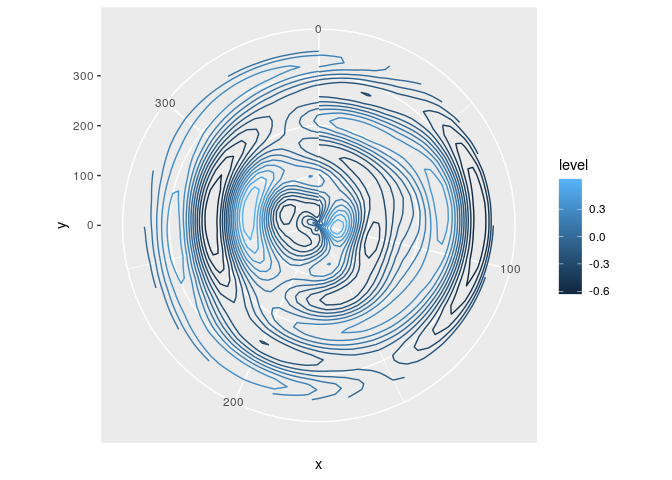
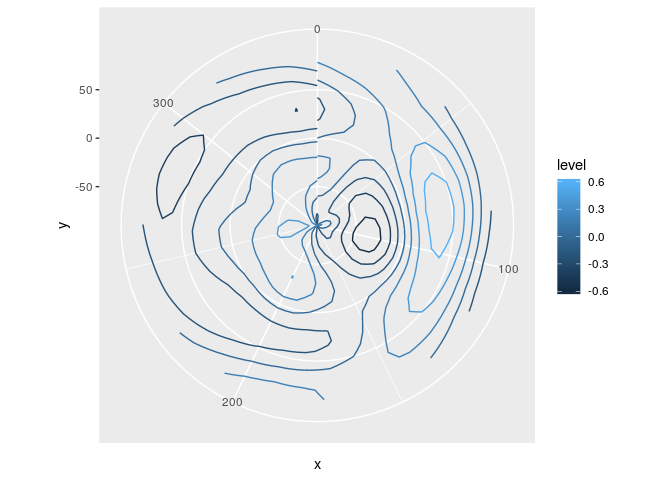
Updates readme

diff --git a/README.md b/README.md
@@ -22,15 +22,15 @@ Let’s create some artificial data with periodic domain
 
 ``` r
 x <- seq(0, 360 - 10, by = 10)*pi/180
-y <- seq(0, 360 - 10, by = 10)*pi/180
+y <- seq(-90, 90, by = 10)*pi/180
 
-z <- outer(1.2*sin(x), 0.4*sin(y*2)) +
-  outer(0.5*cos(2*x), -0.5*sin(3*y)) +
-  outer(0.2*sin(4*x), 0.45*cos(2*x))
+Z <- expand.grid(x = x, y = y)
+Z$z <- with(Z, 1.2*sin(x)*0.4*sin(y*2) - 
+               0.5*cos(2*x)*0.5*sin(3*y) + 
+               0.2*sin(4*x)*0.45*cos(2*x))
 
-dimnames(z) <- list(x = x*180/pi, y = y*180/pi)
-
-Z <- reshape2::melt(z, value.name = "z")
+Z$x <- Z$x*180/pi
+Z$y <- Z$y*180/pi
 ```
 
 If you try to plot it, you’ll notice problems at the limits
@@ -49,7 +49,7 @@ the rest.
 
 ``` r
 library(ggperiodic)
-Z <- periodic(Z, x = c(0, 360), y = c(0, 360))
+Z <- periodic(Z, x = c(0, 360))
 
 ggplot(Z, aes(x, y, color = ..level..)) +
   geom_contour(aes(z = z)) +
